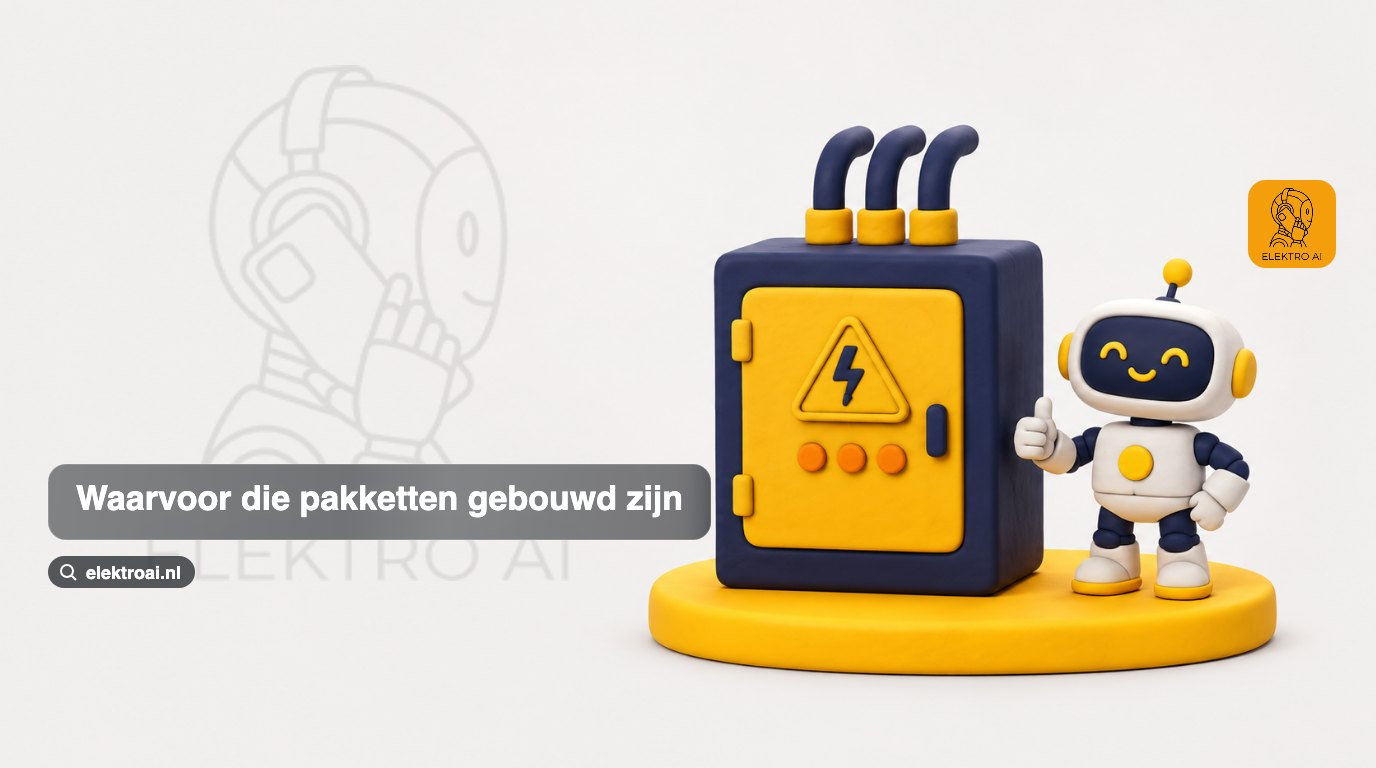
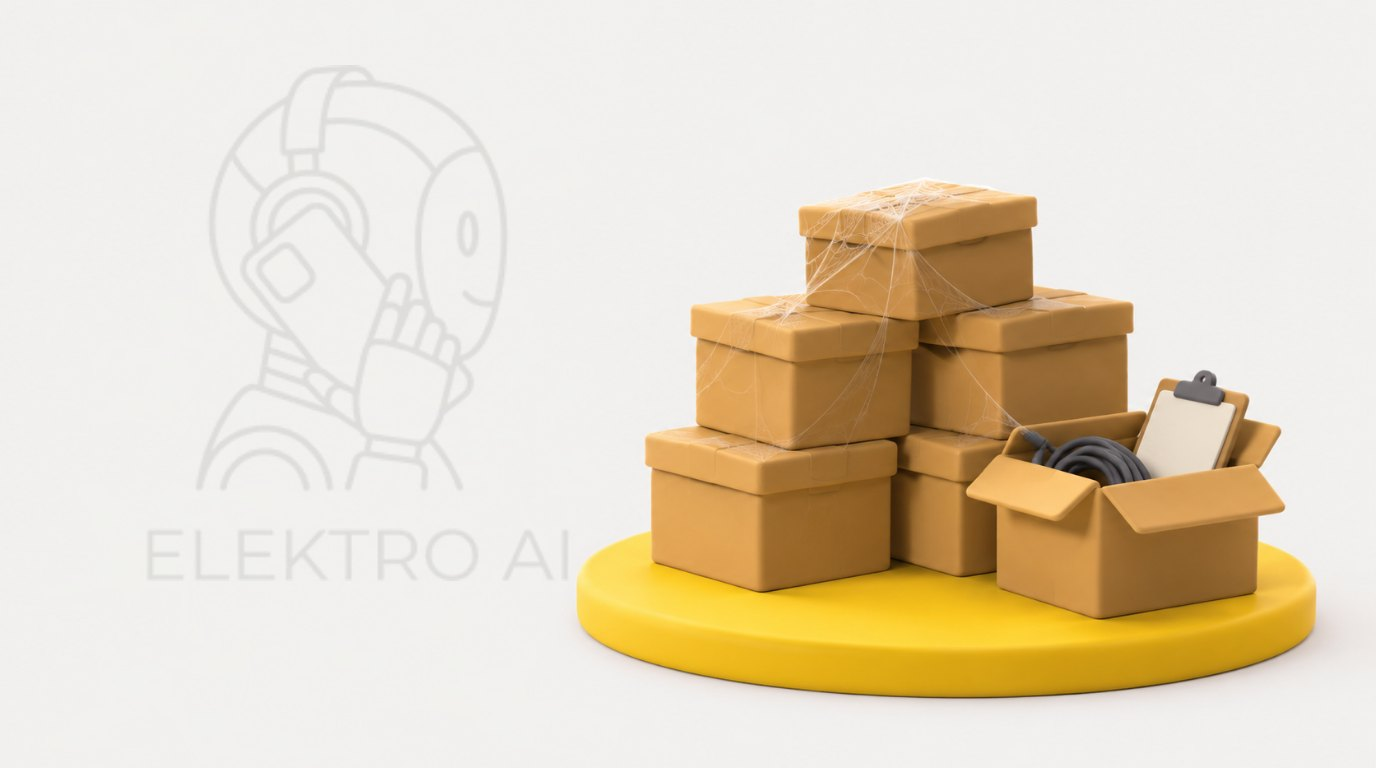
blog: own pictures for ERP software voor je installatiebedrijf: wanneer te groot

Changed region(s): [[0.0312, 0.1562, 0.9688, 0.9375], [0.9062, 0.2188, 0.9688, 0.375]]

diff --git a/posts/erp-software-installatiebedrijf-wanneer-te-groot.md b/posts/erp-software-installatiebedrijf-wanneer-te-groot.md
@@ -31,8 +31,6 @@ De vraag is niet of de belofte klopt. De vraag is of jouw bedrijf het probleem h
 
 ## Waarvoor die pakketten gebouwd zijn
 
-![Waarvoor die pakketten gebouwd zijn](/images/blog/erp-software-installatiebedrijf-wanneer-te-groot-2.jpg)
-
 De grote ERP-pakketten zijn ontworpen rond een kantoor. Er is een calculator die offertes maakt, een werkvoorbereider die projecten opzet, een inkoper die bestelt, een planner die monteurs inzet en een administratie die factureert. Het systeem zorgt dat die 5 mensen elkaars werk zien. Dat merk je aan alles: aan de rollen en rechten, aan de goedkeuringsstappen en aan de rapporten per afdeling.
 
 ### Stel: een bedrijf met 40 man
@@ -44,6 +42,8 @@ Stel dat je 30 monteurs hebt, 6 mensen op kantoor en een magazijn met een vaste 
 Neem een installatiebedrijf met 3 monteurs, de eigenaar die zelf meewerkt en een partner die 2 ochtenden per week de administratie doet. Er is geen inkoper, geen planner en geen magazijnmeester. De goedkeuringsronde voor een inkooporder is jijzelf, in de bus, bij de groothandel. Denk aan een gewone dinsdag: 2 storingen, 1 groepenkast en een offertebezoek, en tussendoor een bestelling van 6 artikelen. In de praktijk vul je een ERP-pakket hier met de hand, op momenten dat je eigenlijk wilt slapen, zodat het systeem weet wat jij allang wist.
 
 ## De vijf modules die je nooit opent
+
+![De vijf modules die je nooit opent](/images/blog/erp-software-installatiebedrijf-wanneer-te-groot-2.jpg)
 
 Een ERP-pakket heeft meestal 10 tot 15 modules. Een klein installatiebedrijf gebruikt er 3 of 4 echt. Deze 5 blijven in de praktijk dicht, en voor elk is er een lichtere oplossing.
 
